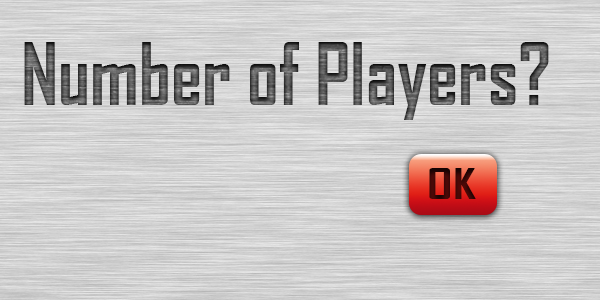
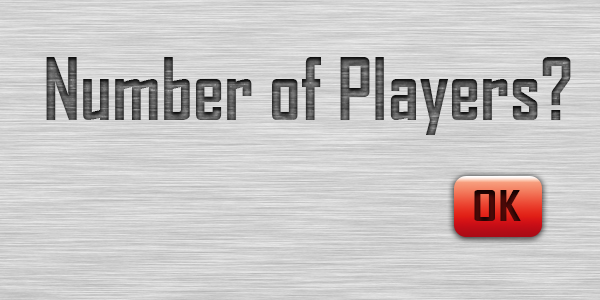
Button stuff added

Changed region(s): [[0.03, 0.12, 0.96, 0.45], [0.66, 0.48, 0.93, 0.81]]

diff --git a/src/IntroUI.java b/src/IntroUI.java
@@ -44,10 +44,22 @@ public class IntroUI extends Stage{
 	public static final double CLOSE_Y = 5;
 	public static final double MIN_Y = 0;
 	
+	public static final double COMBO_X = 50;
+	public static final double COMBO_Y = 180;
+	public static final double COMBO_WIDTH = 360;
+	public static final double COMBO_HEIGHT = 50;
+	
+	public static final double OK_WIDTH = 65.745;
+	public static final double OK_HEIGHT = 45.42;
+	public static final double OK_ARC_SIZE = 7.5;
+	public static final double OK_X = 430;
+	public static final double OK_Y = 180;
+	
 	public static final double RECT_ARC_SIZE = 22.5;
 	public static final Color TRANSPARENT =  Color.rgb(100, 100, 100, 0);
 	
 	public static final int OFFSET = 10;
+	
 	
 	public static final Image INTRO_BORDER_IMAGE = Tools.createImage("background.jpg");
 	public static final Image INTRO_BACK_IMAGE = Tools.createImage("IntroBack.png");
@@ -55,7 +67,9 @@ public class IntroUI extends Stage{
 	public static final Image INTRO_HELP_HOVER_IMAGE = Tools.createImage("IntroHelpHover.png");
 	public static final Image INTRO_PLAY_CLICK_IMAGE = Tools.createImage("IntroPlayClick.png");
 	public static final Image INTRO_PLAY_HOVER_IMAGE = Tools.createImage("IntroPlayHover.png");
-
+	public static final Image NUM_PLAY_IMAGE = Tools.createImage("NumPlayers.png");
+	public static final Image NUM_PLAY_CLICKED_IMAGE = Tools.createImage("NumPlayersClicked.png");
+	
 	public static final BackgroundImage INTRO_BORDER = new BackgroundImage(INTRO_BORDER_IMAGE, BackgroundRepeat.REPEAT, BackgroundRepeat.REPEAT, BackgroundPosition.DEFAULT,
 			new BackgroundSize(INTRO_BORDER_IMAGE.getWidth(), INTRO_BORDER_IMAGE.getHeight(), false, false, false, false));
 	public static final BackgroundImage INTRO_BACK = new BackgroundImage(INTRO_BACK_IMAGE, BackgroundRepeat.REPEAT, BackgroundRepeat.REPEAT, BackgroundPosition.DEFAULT,
@@ -68,6 +82,10 @@ public class IntroUI extends Stage{
 			new BackgroundSize(INTRO_PLAY_CLICK_IMAGE.getWidth(), INTRO_PLAY_CLICK_IMAGE.getHeight(), false, false, true, false));
 	public static final BackgroundImage INTRO_PLAY_HOVER = new BackgroundImage(INTRO_PLAY_HOVER_IMAGE, BackgroundRepeat.REPEAT, BackgroundRepeat.REPEAT, BackgroundPosition.DEFAULT,
 			new BackgroundSize(INTRO_PLAY_HOVER_IMAGE.getWidth(), INTRO_PLAY_HOVER_IMAGE.getHeight(), false, false, true, false));
+	public static final BackgroundImage NUM_PLAY = new BackgroundImage(NUM_PLAY_IMAGE, BackgroundRepeat.REPEAT, BackgroundRepeat.REPEAT, BackgroundPosition.DEFAULT,
+			new BackgroundSize(NUM_PLAY_IMAGE.getWidth(), NUM_PLAY_IMAGE.getHeight(), false, false, true, false));
+	public static final BackgroundImage NUM_PLAY_CLICKED = new BackgroundImage(NUM_PLAY_CLICKED_IMAGE, BackgroundRepeat.REPEAT, BackgroundRepeat.REPEAT, BackgroundPosition.DEFAULT,
+			new BackgroundSize(NUM_PLAY_CLICKED_IMAGE.getWidth(), NUM_PLAY_CLICKED_IMAGE.getHeight(), false, false, true, false));
 	
 	private double widthRatio;
 	private double heightRatio;
@@ -227,6 +245,27 @@ public class IntroUI extends Stage{
 		border.show();
 		border.centerOnScreen();
 	}
+	
+	public Rectangle createOK()
+	{
+		Rectangle okPanel = Tools.createRoundedRectangle(OK_WIDTH, OK_HEIGHT, OK_ARC_SIZE, OK_ARC_SIZE, OK_X, OK_Y, 
+				widthRatio, heightRatio, smallestRatio, Color.BLUE, null);
+		
+		okPanel.setOnMousePressed(new EventHandler<MouseEvent>() {
+			@Override
+			public void handle(MouseEvent arg0) {
+				root.setBackground(new Background(NUM_PLAY_CLICKED));
+			}
+        });
+		okPanel.setOnMouseReleased(new EventHandler<MouseEvent>() {
+			@Override
+			public void handle(MouseEvent arg0) {
+				root.setBackground(new Background(NUM_PLAY));
+			}
+        });
+		
+		return okPanel;
+	}
 	private void createNumSelect()
 	{
 		numSelect = new Stage();
@@ -236,18 +275,22 @@ public class IntroUI extends Stage{
 		Scene scene = new Scene(root, NUM_SELECT_WIDTH * widthRatio, NUM_SELECT_HEIGHT * heightRatio);
 		ObservableList<String> options = FXCollections.observableArrayList("1 Player", "2 Players", "3 Players", "4 Players");
 		ComboBox comboBox = new ComboBox(options);
-		comboBox.setLayoutX(150*widthRatio);
-		comboBox.setLayoutY(100*heightRatio);
-		comboBox.setPrefWidth(300*smallestRatio);
+		
+		comboBox.setLayoutX(COMBO_X * widthRatio);
+		comboBox.setLayoutY(COMBO_Y * heightRatio);
+		comboBox.setPrefWidth(COMBO_WIDTH * smallestRatio);
+		comboBox.setPrefHeight(COMBO_HEIGHT * smallestRatio);
+		Rectangle ok = createOK();
 		
 		root.setEffect(Tools.LARGE_SHADE);
 		
-		root.getChildren().addAll(comboBox);
+		root.getChildren().addAll(comboBox, ok);
 		
-		root.setBackground(new Background(INTRO_BORDER));
+		root.setBackground(new Background(NUM_PLAY));
 		numSelect.setScene(scene);
 		numSelect.show();
 	}
+	
 	private void showHelpScreen()
 	{
 		AnchorPane root = new AnchorPane();
